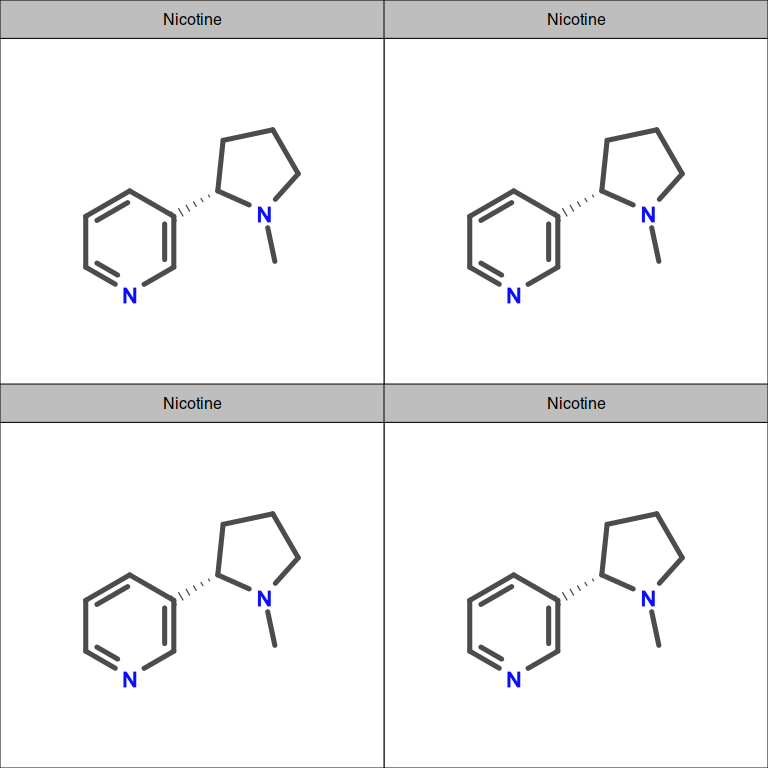
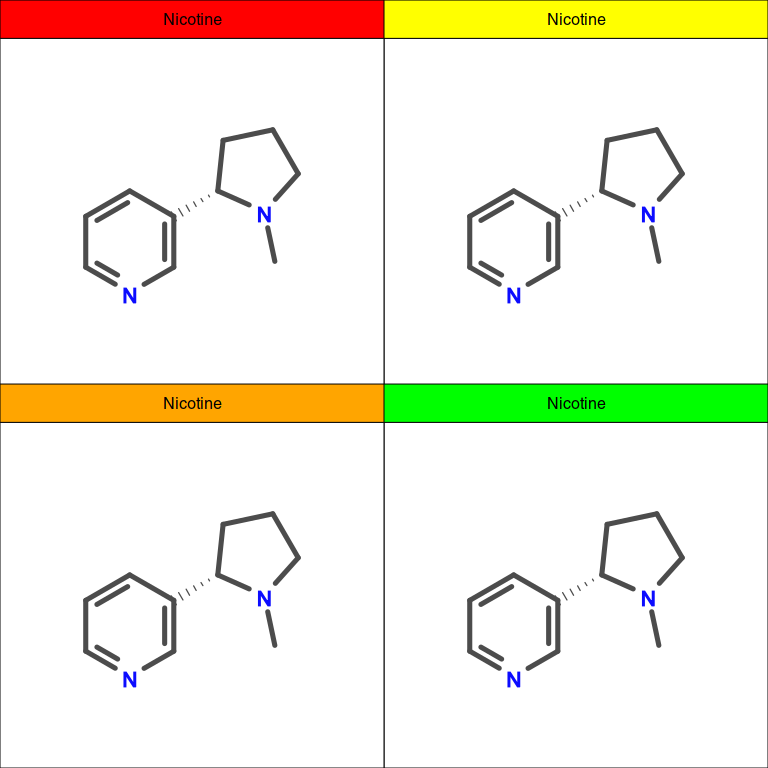
Allow editing strip background fill and text color.
Also allow overriding facetting layouts.

Changed region(s): [[0.0, 0.5, 1.0, 0.5625], [0.0, 0.0, 1.0, 0.0625]]

diff --git a/readme.md b/readme.md
@@ -20,7 +20,7 @@ nic_sdf = file.path(system.file(package = "babelr"),
 out = ob_render(nic_sdf)
 ```
 
-    ## '/tmp/Rtmpv6UeBU/nicotine.svg' (SVG) was converted to '/tmp/Rtmpv6UeBU/nicotine-grid.svg' (Cairo SVG)
+    ## '/tmp/Rtmp55XAei/nicotine.svg' (SVG) was converted to '/tmp/Rtmp55XAei/nicotine-grid.svg' (Cairo SVG)
 
 ``` r
 nic = grImport2::readPicture(out$created)
@@ -35,7 +35,18 @@ fp
 Multiple pictures can be plotted into a grid.
 
 ``` r
-combine_frames(list(fp, fp, fp, fp))
+combine_frames(list(fp, fp, fp, fp), 
+               background_fill = c("red", "orange", "yellow", "green"))
 ```
 
 ![](readme_files/figure-gfm/gridded-1.png)<!-- -->
+
+It is also possible to override the layout.
+
+``` r
+combine_frames(list(fp, fp, fp, fp), 
+               background_fill = c("red", "orange", "yellow", "green"),
+               facet_layout = c(1, 4))
+```
+
+![](readme_files/figure-gfm/unnamed-chunk-2-1.png)<!-- -->
